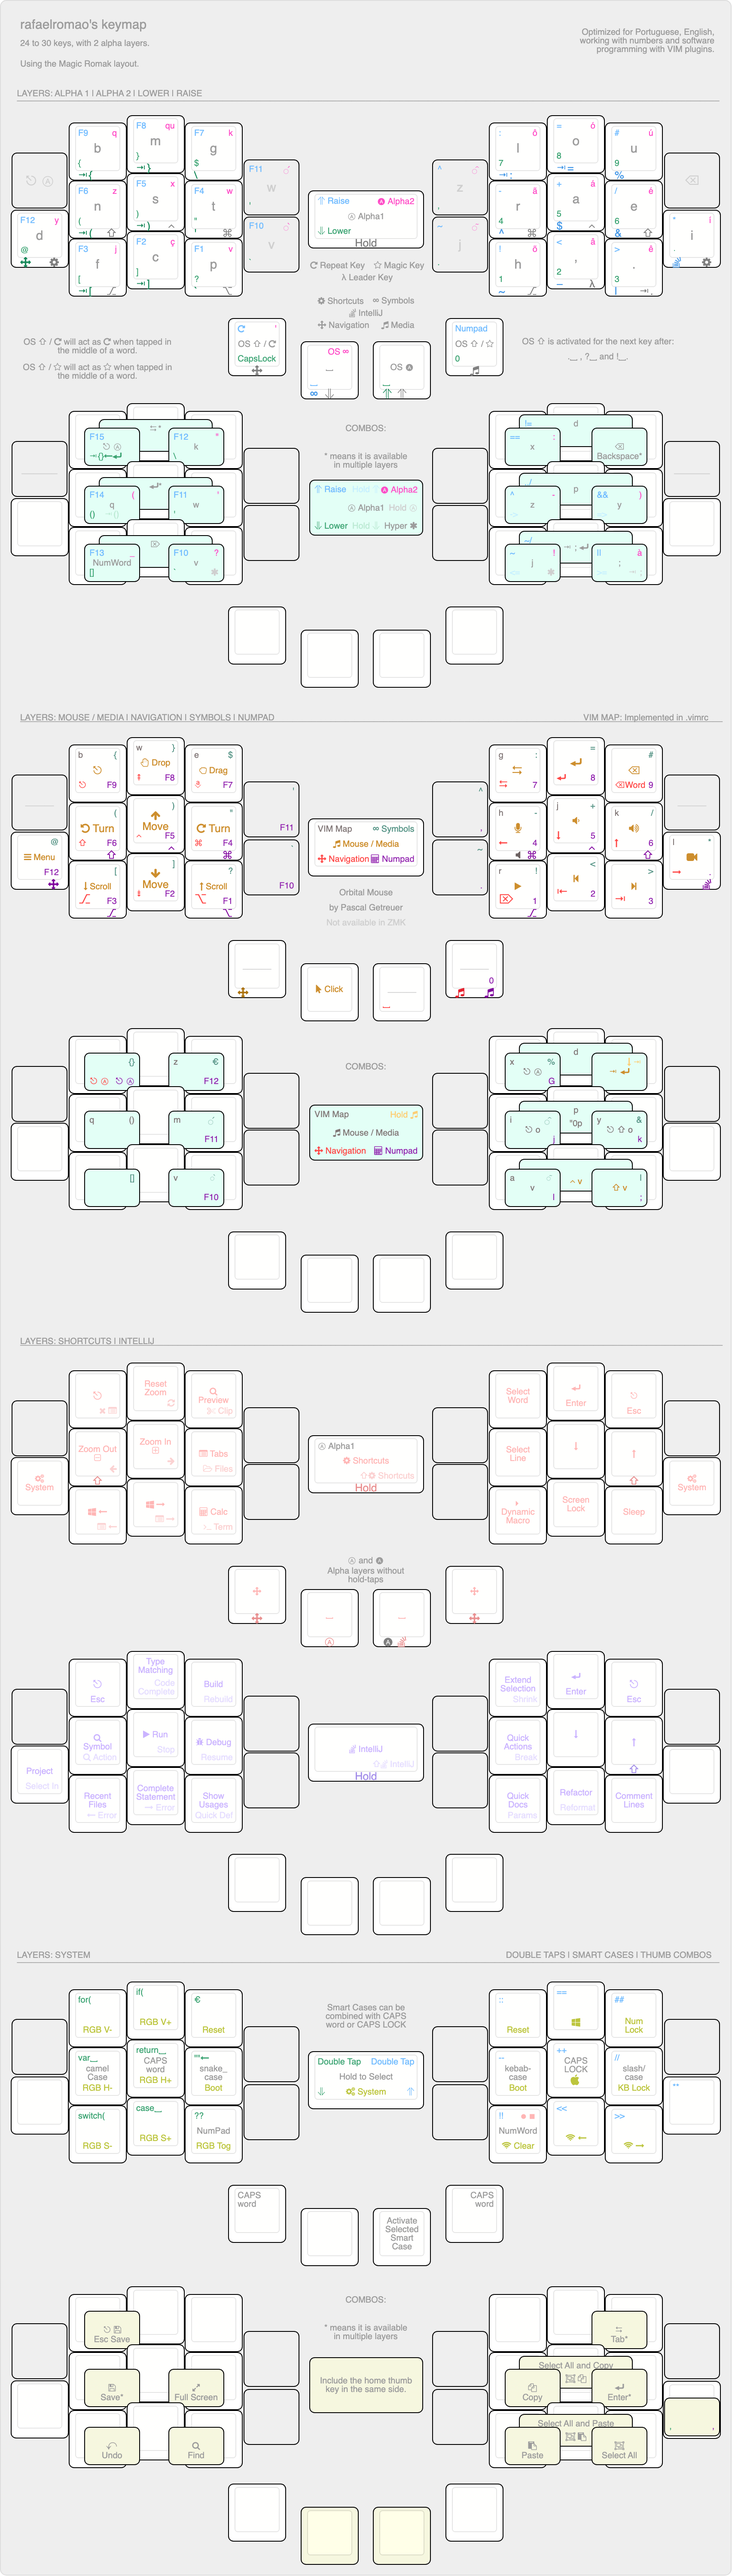
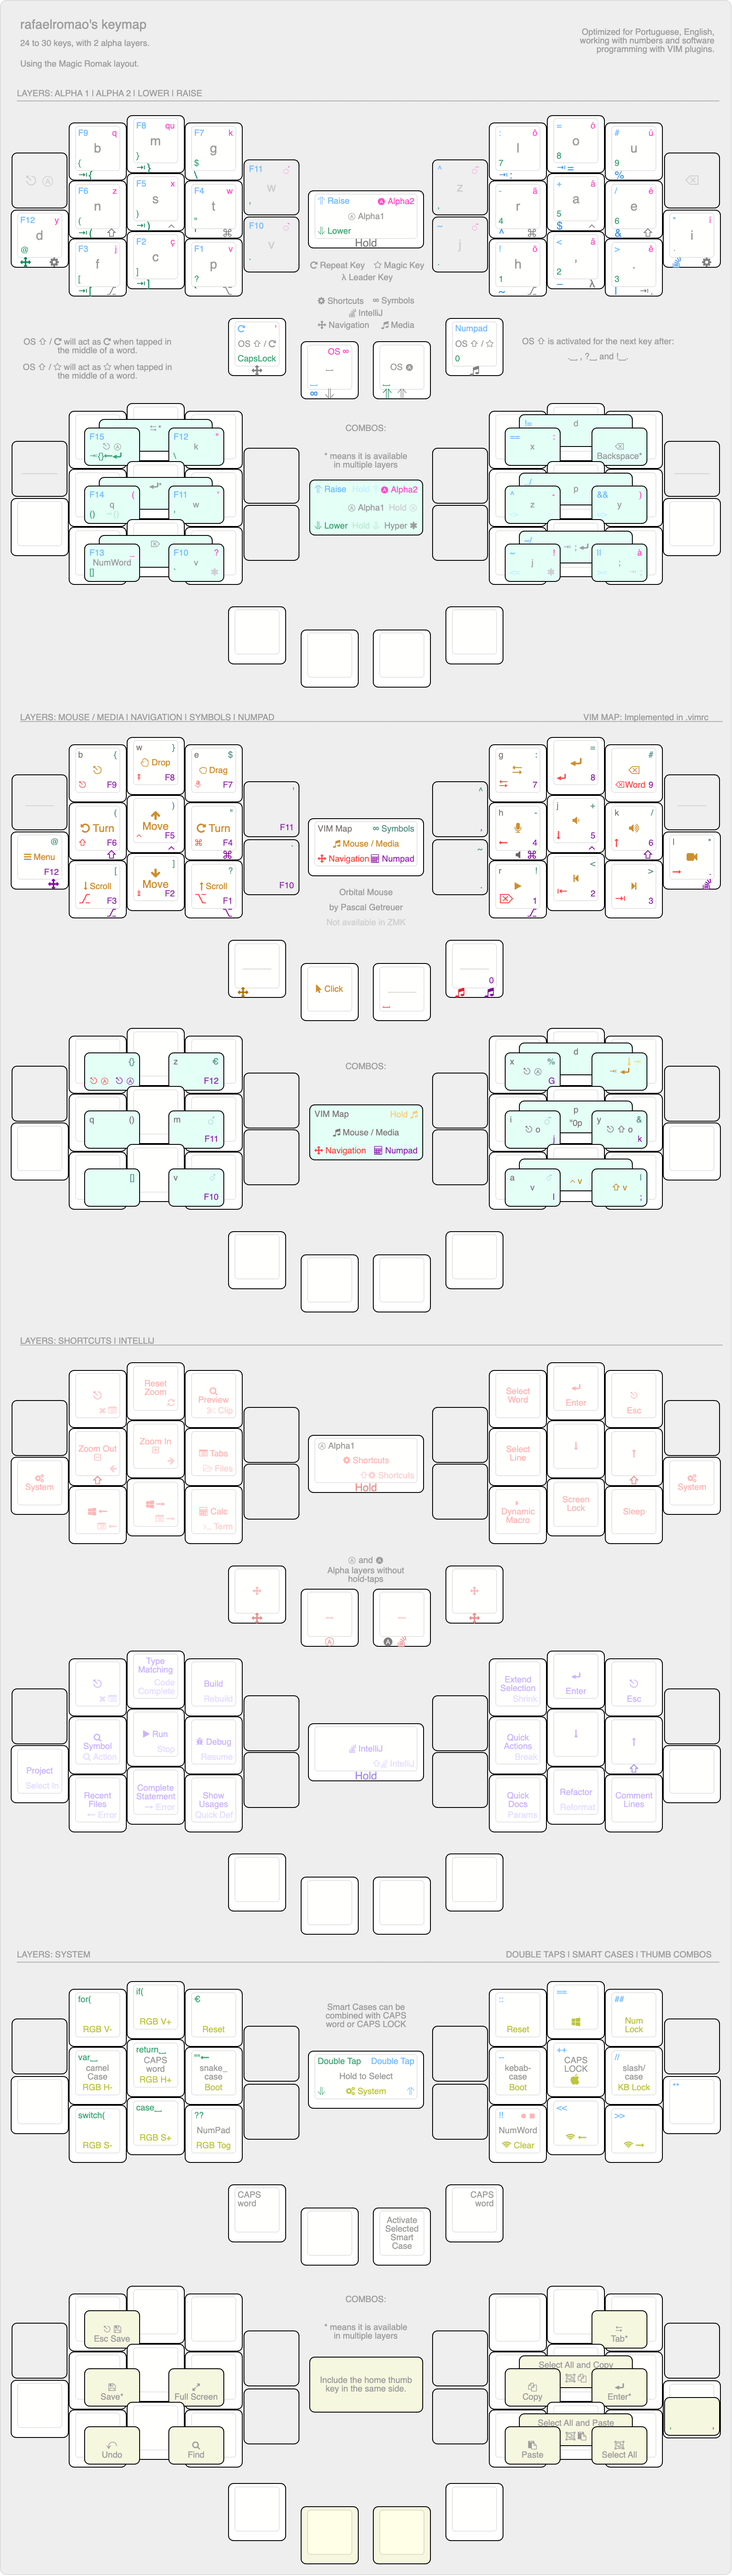
add close tab to the intellij layer

diff --git a/src/qmk/users/rafaelromao/definitions/keymap_blocks.h b/src/qmk/users/rafaelromao/definitions/keymap_blocks.h
@@ -55,7 +55,7 @@
 #define ________________SHORTCUTS_R3_________           XXXXXXX , TD_MACR , MC_LOCK , KC_SLEP
 #define _SHORTCUTS_R4____                               INT_SPC , TT_NAV
 
-#define _________________INTELLIJ_L1_________           XXXXXXX , KC_ESC  , MC_AUCO , MC_BUID 
+#define _________________INTELLIJ_L1_________           XXXXXXX , MC_CLOS , MC_AUCO , MC_BUID 
 #define _________________INTELLIJ_L2___________________ MC_PROJ , SF_FSYM , MC_RUN  , MC_DBUG , XXXXXXX
 #define           _______INTELLIJ_L3___________________           MC_RECE , MC_COMP , MC_FIUS , XXXXXXX
 #define                               __INTELLIJ_L4____                               _______ , _______
